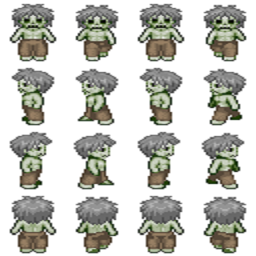
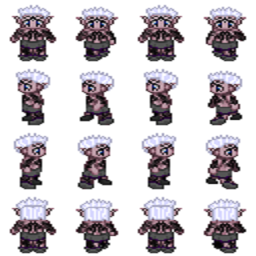
change sprite

diff --git a/Game Assignment/Enemy.cpp b/Game Assignment/Enemy.cpp
@@ -48,7 +48,7 @@ Enemy::~Enemy()
 void Enemy::init()
 {
 	hr = D3DXCreateSprite(Graphic::getInstance()->d3dDevice, &enemySprite);
-	hr = D3DXCreateTextureFromFileEx(Graphic::getInstance()->d3dDevice, "resource/enemy2.png", D3DX_DEFAULT, D3DX_DEFAULT,
+	hr = D3DXCreateTextureFromFileEx(Graphic::getInstance()->d3dDevice, "resource/enemy1.png", D3DX_DEFAULT, D3DX_DEFAULT,
 		D3DX_DEFAULT, NULL, D3DFMT_A8R8G8B8, D3DPOOL_MANAGED,
 		D3DX_DEFAULT, D3DX_DEFAULT, D3DCOLOR_XRGB(255, 255, 255), //change the XRGB to ignore the color
 		NULL, NULL, &enemy1);
